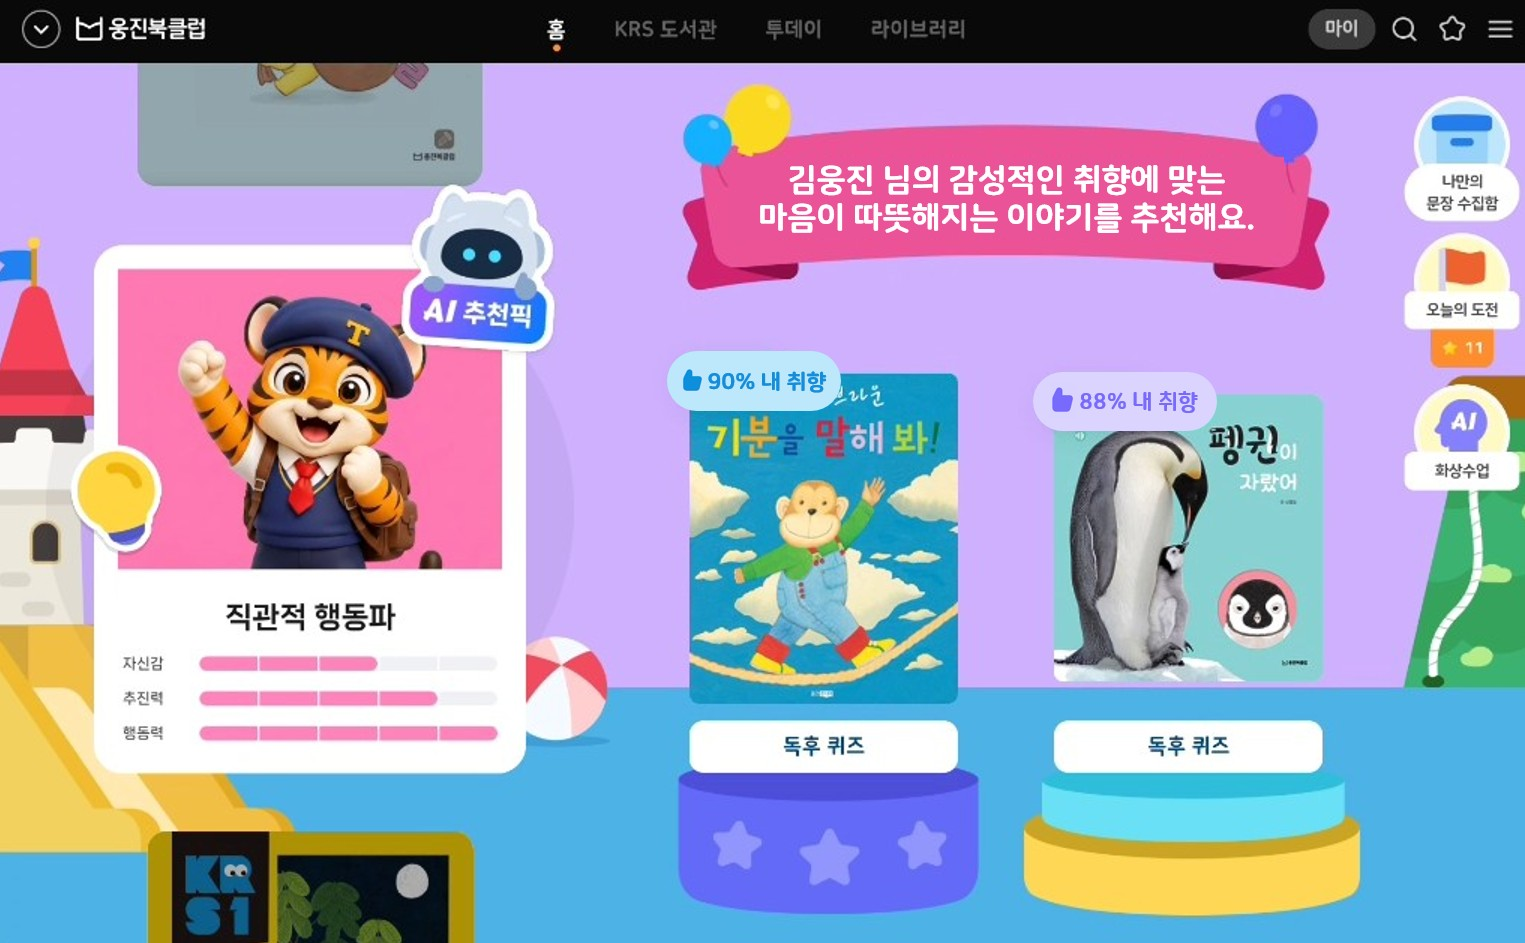
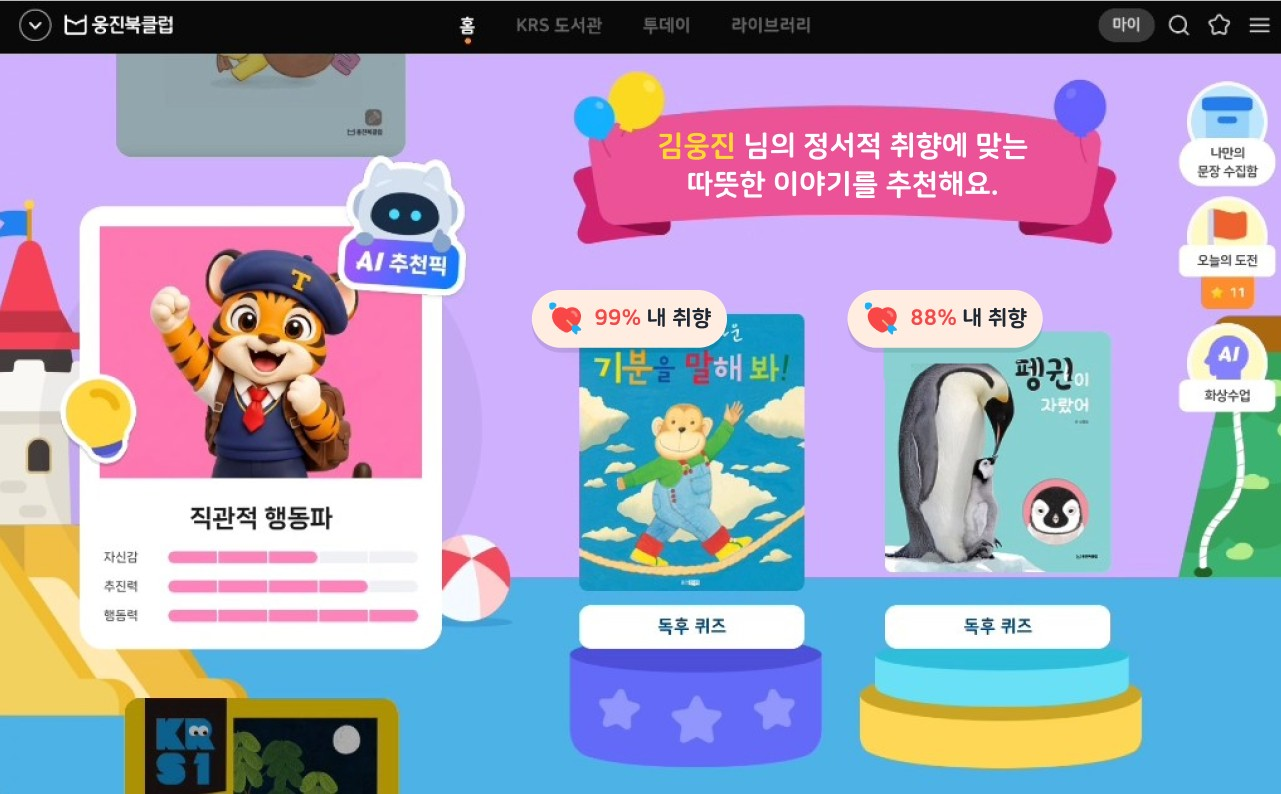
17p 18p 이미지 갱신 및 하이라이트 좌표 실측 재조정
이미지 갱신
- ai_pick_after.jpg 1525x943 -> 1281x794 (205KB -> 161KB)
- bingo2.jpg 갱신 1595x894 (231KB -> 259KB)

17p 하이라이트 좌표 재조정
- 캔버스 픽셀 분석으로 강조 대상의 실제 경계를 측정
  리본 44.9~87.0 / 9.3~30.6
  99% 배지 43.1~55.5 / 38.7~46.9
  우측 배지 67.7~74.6 / 38.7~41.8
- 이전 좌표는 대상보다 작거나 위로 치우쳐 테두리가 배지를 가로지르고 있었음
  99% 배지의 경우 박스 하단이 44.1% 로 배지 하단 46.9% 를 잘라먹던 상태
- 사방 1% 여유를 두고 재지정
  1 리본 43.9 / 8.3 / 44.2 / 23.3
  2 99% 배지 42.1 / 37.7 / 14.5 / 10.2
  3 우측 배지 66.7 / 37.7 / 8.9 / 5.4
- 세 번째 박스가 두 번째와 같은 라벨 2 를 달고 있던 중복 제거
- 캡션 표기 90% 내 취향 -> 99% 내 취향

참고
- 두 이미지의 콘텐츠 배치는 비율 기준으로 이전과 동일함을 대조 확인
  해상도만 축소되었고 전역 오프셋 0

검증
- 렌더링 후 세 박스 모두 대상 콘텐츠를 사방 1% 여유로 포함
  가려지는 영역 0
- 24장 전부 16:9, 넘침 0건, 잘림 0건

diff --git a/report.html b/report.html
@@ -1535,13 +1535,13 @@ ul.clean li::marker{color:var(--ink-4)}
             </div>
             <div class="xf">
               <img class="shot" src="images/ai_pick_after.jpg" alt="적용 후 AI 추천픽 화면 — 확률 옆에 내 취향 워딩이 붙고 추천 문구가 아이의 취향을 근거로 제시한다" />
-              <span class="hilite" style="left:44.4%;top:12.3%;width:43.3%;height:19.4%" data-t="1"></span>
-              <span class="hilite below" style="left:43.1%;top:36.6%;width:12.5%;height:7.5%" data-t="2"></span>
-              <span class="hilite below" style="left:67.2%;top:38.4%;width:13.0%;height:7.5%" data-t="2"></span>
+              <span class="hilite" style="left:43.9%;top:8.3%;width:44.2%;height:23.3%" data-t="1"></span>
+              <span class="hilite below" style="left:42.1%;top:37.7%;width:14.5%;height:10.2%" data-t="2"></span>
+              <span class="hilite" style="left:66.7%;top:37.7%;width:8.9%;height:5.4%"></span>
             </div>
           </div>
           <div class="shotcap"><b class="red">1</b><span>도서 소개를 <strong>추천하는 이유</strong>로 보완한다.</span></div>
-          <div class="shotcap"><b class="red">2</b><span><strong>90% 내 취향</strong> — 직관적인 텍스트를 함께 명시한다.</span></div>
+          <div class="shotcap"><b class="red">2</b><span><strong>99% 내 취향</strong> — 직관적인 텍스트를 함께 명시한다.</span></div>
         </div>
         <div class="flow fitimg" style="--fh:29.6em">
           <div class="colhead"><span class="ctag ev">인식</span> 👍 90% 표시를 무엇으로 이해했나 <span class="small">전체 25명</span></div>
